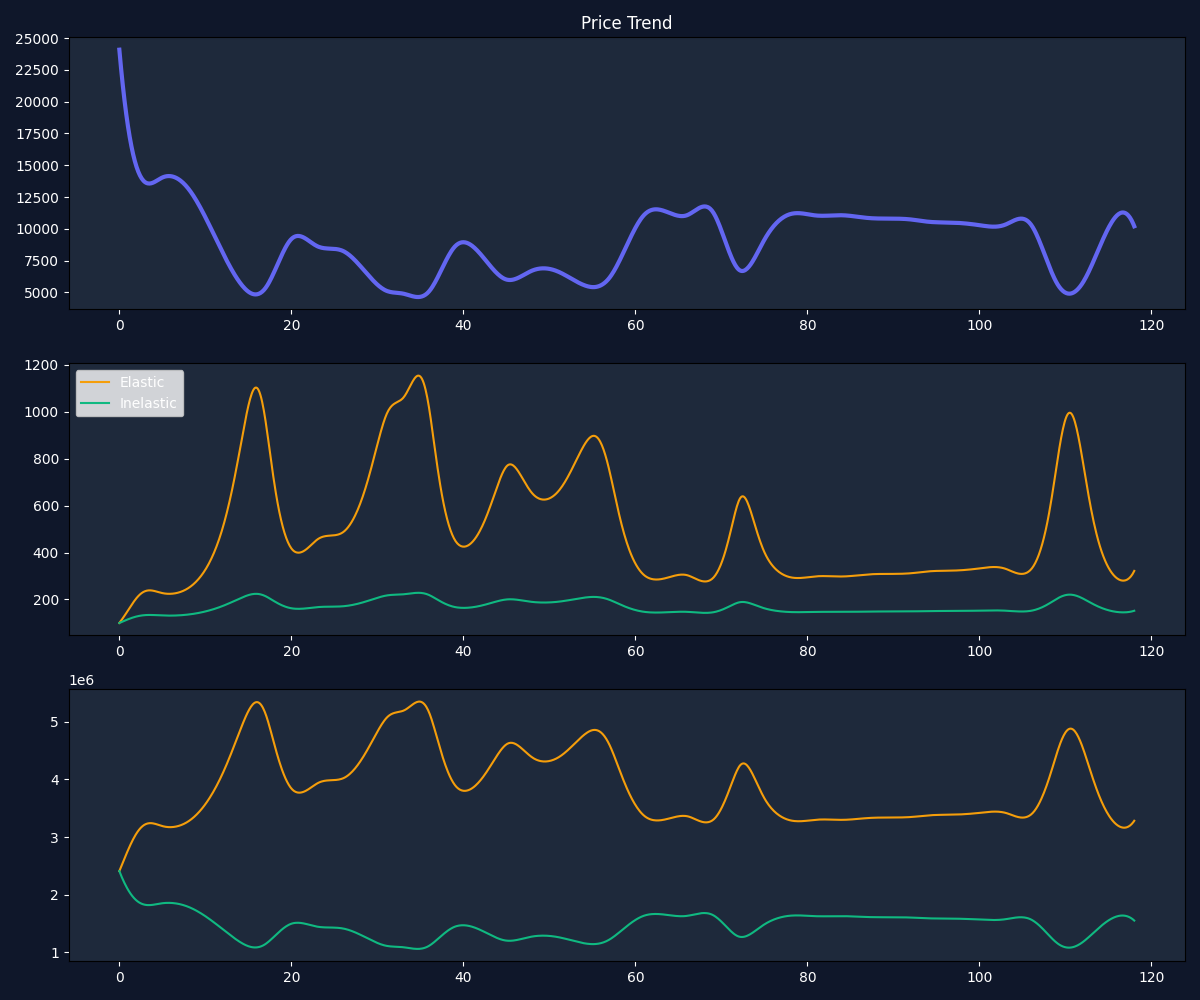
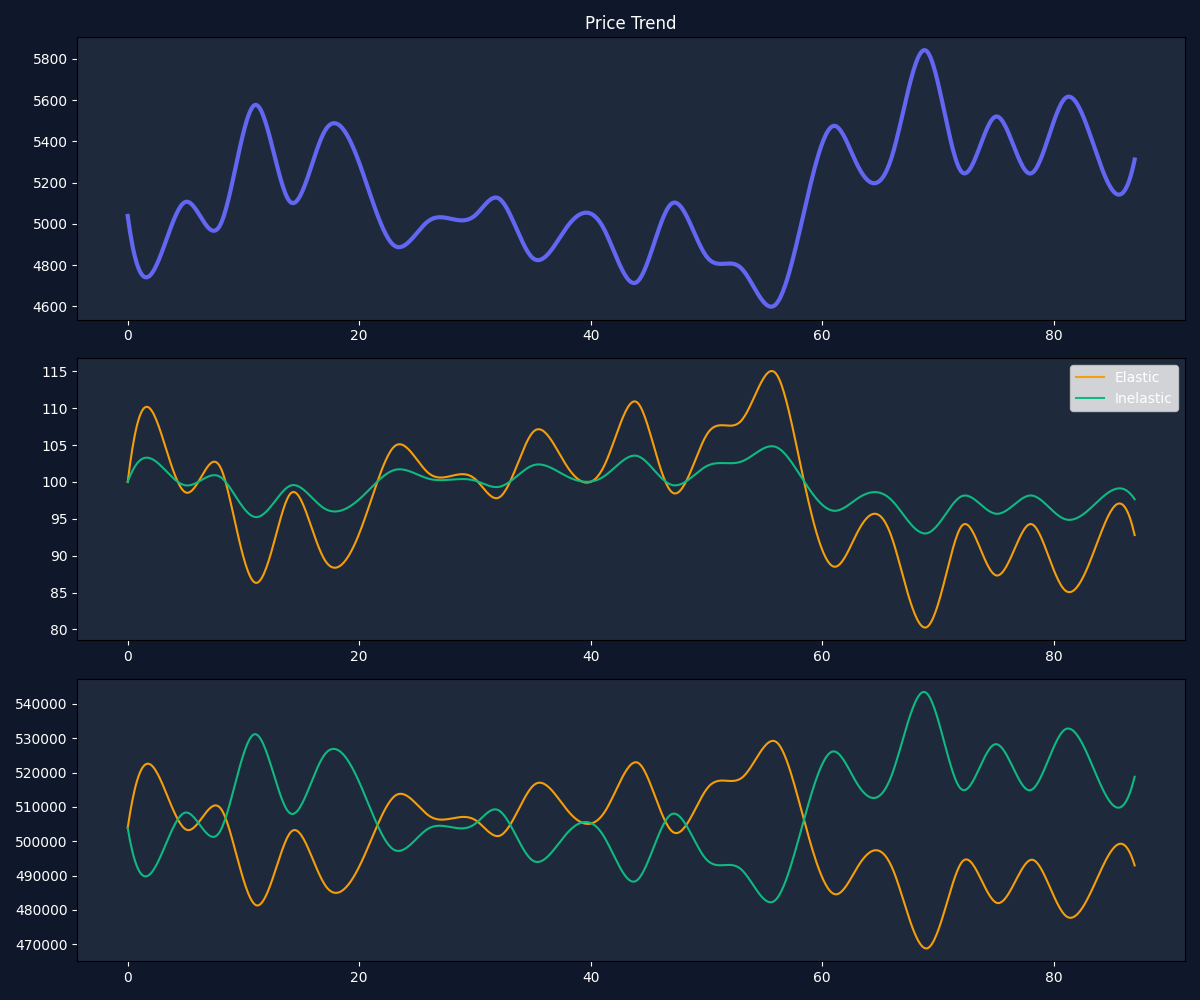
bangalore to delhi problem solved

diff --git a/simulation/pricing_model.py b/simulation/pricing_model.py
@@ -1,3 +1,5 @@
+import matplotlib
+matplotlib.use('Agg')  # <--- ADD THIS LINE FIRST
 import numpy as np
 import pandas as pd
 import matplotlib.pyplot as plt
